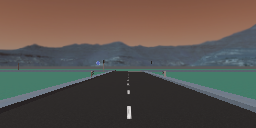
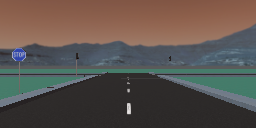
fixed stop sign

diff --git a/controllers/av_challenge_controller/av_challenge_controller.py b/controllers/av_challenge_controller/av_challenge_controller.py
@@ -1,0 +1,126 @@
+#!/usr/bin/python3
+
+"""av_challenge_controller controller."""
+from controller import Robot, Camera, Motor, Lidar
+from vehicle import Driver, Car
+import numpy as np
+import cv2
+import matplotlib.pyplot as plt
+
+def detectStopSign(camera,init_brake=0.5):
+    '''
+    Given a camera, find stop sign via
+    hsv masking, and depending on the size
+    give a brake command
+    '''
+
+    img = cv2.flip(cv2.rotate(np.array(camera.getImageArray(), dtype='uint8'), cv2.ROTATE_90_CLOCKWISE), 1)
+    cv2.imwrite('stop_sign_light.png',img)
+    img_hsv = cv2.cvtColor(img, cv2.COLOR_BGR2HSV)
+    lower = np.array([110,17,168], dtype=np.uint8)
+    upper = np.array([180,255,255], dtype=np.uint8)
+    mask = cv2.inRange(img_hsv, lower, upper)
+
+    contours, hierarchy = cv2.findContours(mask, cv2.RETR_TREE, cv2.CHAIN_APPROX_SIMPLE)
+    areas = []
+    for c in contours:
+        areas.append(cv2.contourArea(c))
+
+    if len(areas) != 0:
+        max_area = max(areas)
+        if max_area > 30:
+            return max(-init_brake/110 * (max_area - 130),0)
+    return 1
+
+def laneLineCmdVel(camera, white_sensitivity=60):
+    '''
+    Take in raw image from front_camera, track
+    lane lines and return steering angle such that
+    the car centers itself on the lines
+    '''
+
+    # Get image from camera in the correct orientation
+    img = cv2.flip(cv2.rotate(np.array(camera.getImageArray(), dtype='uint8'), cv2.ROTATE_90_CLOCKWISE), 1)
+
+    # Mask image to get just the (white) lane line
+    img_hsv = cv2.cvtColor(img, cv2.COLOR_BGR2HSV)
+    lower_white = np.array([0, 0, 255-white_sensitivity], dtype=np.uint8)
+    upper_white = np.array([255, white_sensitivity, 255], dtype=np.uint8)
+    mask = cv2.inRange(img_hsv, lower_white, upper_white)
+
+    # Get edges via canny edge detection
+    edges = cv2.Canny(mask, 200, 400)
+    (h, w) = edges.shape
+    edges[0:int(2*h/3), :] = 0
+
+    # Convert edges into lines via Hough Transform
+    lines = cv2.HoughLinesP(edges, 1, np.pi/180, 1, np.array([]), minLineLength=8, maxLineGap=24)
+    # If no lines return no steering command
+    if lines is None:
+        return None
+    # Otherwise lets average, find the slope and displacement from center
+    avg_center = 0
+    avg_theta = 0
+    n = 0
+    for l in lines:
+        l = l.flatten()
+        if l[1] > l[3]:
+            theta = np.pi - np.arctan2(l[1]-l[3], l[0]-l[2])
+        else:
+            theta = np.pi - np.arctan2(l[3]-l[1], l[2]-l[0])
+        avg_theta += theta
+        avg_center += (l[0] + l[2])/2
+        n += 1
+
+    avg_center /= n
+    avg_theta /= n
+    return float(avg_center - w/2)/float(w/2)
+
+
+# Initialize our car and sensors
+car = Car()
+front_camera = car.getCamera("front_camera")
+front_camera.enable(50)
+
+car.setBrakeIntensity(0.75)
+car.setCruisingSpeed(35)
+
+# Do we want to stop at stop signs?
+stop_sign = True
+
+# Controller tuning and inits
+alpha = 0.7
+prev_cmd_angle = 0
+low_pass_cmd = 0
+
+while car.step() != -1:
+    cmd_angle = laneLineCmdVel(front_camera, 40)
+    if cmd_angle is None:
+        cmd_angle = prev_cmd_angle
+
+    diff = cmd_angle - low_pass_cmd
+    p_total = 0.5 * cmd_angle
+
+    diff = cmd_angle - prev_cmd_angle
+<<<<<<< HEAD
+    desired_speed = 40 / (abs(cmd_angle) + 1)
+=======
+    desired_speed = 35 / (abs(cmd_angle) + 1)
+    print('desired speed', desired_speed)
+    print('diff', diff)
+>>>>>>> 10d222532ee959029a35600f567dc13bc1a410b4
+
+    inc = max(min(diff, 0.02), -0.02)
+
+    cmd_angle = prev_cmd_angle + inc
+    low_pass_cmd = cmd_angle
+
+    car.setCruisingSpeed(desired_speed)
+    car.setSteeringAngle(p_total)
+
+    prev_cmd_angle = low_pass_cmd
+    
+    # Stop sign detection
+    if stop_sign:
+        brake_cmd = detectStopSign(front_camera)
+        car.setCruisingSpeed(desired_speed*brake_cmd)
